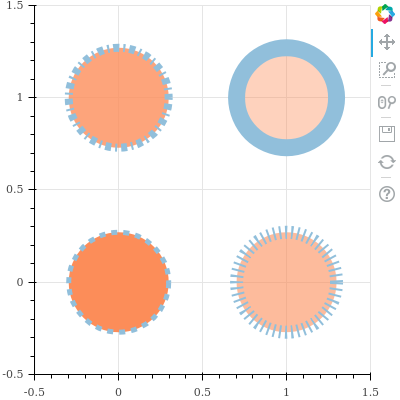
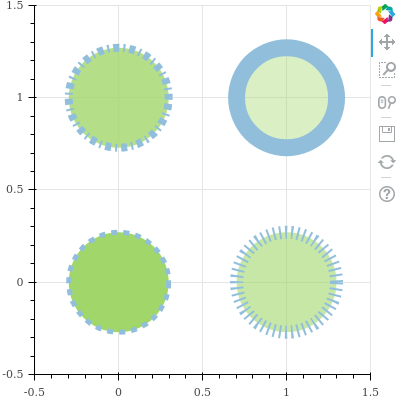
adding glyphs

diff --git a/visualizations/bokeh/figures/circle.html b/visualizations/bokeh/figures/circle.html
@@ -26,15 +26,15 @@
     <body>
         
         <div class="bk-root">
-            <div class="bk-plotdiv" id="016ee3e6-6bab-4445-b987-88fb6fec91d3"></div>
+            <div class="bk-plotdiv" id="a6efa2a0-9f1f-44df-a753-4837cfc12f98"></div>
         </div>
         
         <script type="text/javascript">
             (function() {
           var fn = function() {
             Bokeh.safely(function() {
-              var docs_json = {"7425c72e-9d25-4853-b5f8-5a833be7a4af":{"roots":{"references":[{"attributes":{},"id":"da77394c-7f90-44b4-bea1-871bcfb5b0c9","type":"BasicTicker"},{"attributes":{"formatter":{"id":"8e829ac3-730e-4922-b22a-999b3f5d0844","type":"BasicTickFormatter"},"plot":{"id":"825ba404-db85-4a4c-af7a-4bc21a72608d","subtype":"Figure","type":"Plot"},"ticker":{"id":"8ca9ca64-d7a2-4994-b25f-76a56bb666cb","type":"BasicTicker"}},"id":"10b7a12d-4543-485d-b7d3-59bacd44a700","type":"LinearAxis"},{"attributes":{},"id":"30558fc4-14f2-4649-91ea-7748aa179401","type":"BasicTickFormatter"},{"attributes":{"active_drag":"auto","active_inspect":"auto","active_scroll":"auto","active_tap":"auto","tools":[{"id":"937ae34c-2afb-416a-95f5-23733806713f","type":"PanTool"},{"id":"8aceb1f4-587e-4f96-8ad3-627977fc6270","type":"WheelZoomTool"},{"id":"8dbe59e8-bcb9-4245-8c7a-ae4bae2d7dc0","type":"BoxZoomTool"},{"id":"1e003483-a9c9-4d94-81a9-7a6c46dcdf59","type":"SaveTool"},{"id":"d5073bff-00fe-458f-bf49-c115d2980458","type":"ResetTool"},{"id":"ec0d198e-4907-4490-a04b-97482ac9746b","type":"HelpTool"}]},"id":"9d59d6c5-4900-40bd-a333-58a317f9305c","type":"Toolbar"},{"attributes":{"callback":null,"data":{}},"id":"0e43b28f-b67c-4ab3-bfa4-af4816c6188e","type":"ColumnDataSource"},{"attributes":{"fill_alpha":{"value":0.1},"fill_color":{"value":"#1f77b4"},"line_alpha":{"value":0.1},"line_color":{"value":"#1f77b4"},"line_dash":[2,4],"line_width":{"value":13},"size":{"units":"screen","value":100},"x":{"value":1},"y":{"value":0}},"id":"c6679bb0-2d48-4f10-ab4a-7471c9c18068","type":"Circle"},{"attributes":{"data_source":{"id":"0e43b28f-b67c-4ab3-bfa4-af4816c6188e","type":"ColumnDataSource"},"glyph":{"id":"da93e79d-591a-494e-950f-ed293dbf658c","type":"Circle"},"hover_glyph":null,"muted_glyph":null,"nonselection_glyph":{"id":"c6679bb0-2d48-4f10-ab4a-7471c9c18068","type":"Circle"},"selection_glyph":null,"view":{"id":"66f0ad3f-89fd-4c10-b846-225695e4f6e0","type":"CDSView"}},"id":"46f05738-0840-43ec-8d3f-c16fc93efa57","type":"GlyphRenderer"},{"attributes":{},"id":"8aceb1f4-587e-4f96-8ad3-627977fc6270","type":"WheelZoomTool"},{"attributes":{"bottom_units":"screen","fill_alpha":{"value":0.5},"fill_color":{"value":"lightgrey"},"left_units":"screen","level":"overlay","line_alpha":{"value":1.0},"line_color":{"value":"black"},"line_dash":[4,4],"line_width":{"value":2},"plot":null,"render_mode":"css","right_units":"screen","top_units":"screen"},"id":"aab9ffb8-cad7-4c4b-80be-4af5413a740b","type":"BoxAnnotation"},{"attributes":{"data_source":{"id":"1aa495d4-7cc4-4b5f-8df1-5557ed0e0f76","type":"ColumnDataSource"},"glyph":{"id":"3f9fa75b-c113-4ba8-a276-ce42a9555970","type":"Circle"},"hover_glyph":null,"muted_glyph":null,"nonselection_glyph":{"id":"eacd7602-37bb-45c4-a5e2-34bbc74a8ac0","type":"Circle"},"selection_glyph":null,"view":{"id":"0610156e-77dd-4f61-8d52-fc8ca9e7e5a9","type":"CDSView"}},"id":"f68b690f-1f57-464d-ba5f-0f5635d0fafb","type":"GlyphRenderer"},{"attributes":{"fill_alpha":{"value":0.1},"fill_color":{"value":"#1f77b4"},"line_alpha":{"value":0.1},"line_color":{"value":"#1f77b4"},"line_dash":[2,4,6,4],"line_width":{"value":8},"size":{"units":"screen","value":100},"x":{"value":0},"y":{"value":1}},"id":"28481f73-9f19-4dd0-affa-ce8c21357e09","type":"Circle"},{"attributes":{"bounds":[-1,2],"callback":null,"end":1.5,"start":-0.5},"id":"25f91809-740a-4531-94a2-788de5cbe448","type":"Range1d"},{"attributes":{},"id":"8ca9ca64-d7a2-4994-b25f-76a56bb666cb","type":"BasicTicker"},{"attributes":{"formatter":{"id":"30558fc4-14f2-4649-91ea-7748aa179401","type":"BasicTickFormatter"},"plot":{"id":"825ba404-db85-4a4c-af7a-4bc21a72608d","subtype":"Figure","type":"Plot"},"ticker":{"id":"da77394c-7f90-44b4-bea1-871bcfb5b0c9","type":"BasicTicker"}},"id":"857831e0-e284-4c47-a548-df1c81f61782","type":"LinearAxis"},{"attributes":{"source":{"id":"90b80540-f40a-4370-9db0-cfec0802f675","type":"ColumnDataSource"}},"id":"8ca2b331-722e-418c-a00c-5eee77869789","type":"CDSView"},{"attributes":{"callback":null,"data":{}},"id":"90b80540-f40a-4370-9db0-cfec0802f675","type":"ColumnDataSource"},{"attributes":{"bounds":[-1,2],"callback":null,"end":1.5,"start":-0.5},"id":"d073dffe-87fc-4857-8290-2029acad726f","type":"Range1d"},{"attributes":{"below":[{"id":"10b7a12d-4543-485d-b7d3-59bacd44a700","type":"LinearAxis"}],"left":[{"id":"857831e0-e284-4c47-a548-df1c81f61782","type":"LinearAxis"}],"plot_height":400,"plot_width":400,"renderers":[{"id":"10b7a12d-4543-485d-b7d3-59bacd44a700","type":"LinearAxis"},{"id":"5f26ee8c-197d-401a-9b27-2aa83bcc8ae1","type":"Grid"},{"id":"857831e0-e284-4c47-a548-df1c81f61782","type":"LinearAxis"},{"id":"ebd14b0b-7014-4272-b4de-fcd81ee56b18","type":"Grid"},{"id":"aab9ffb8-cad7-4c4b-80be-4af5413a740b","type":"BoxAnnotation"},{"id":"f68b690f-1f57-464d-ba5f-0f5635d0fafb","type":"GlyphRenderer"},{"id":"7056ece1-690b-4c04-830a-e03a98319b91","type":"GlyphRenderer"},{"id":"46f05738-0840-43ec-8d3f-c16fc93efa57","type":"GlyphRenderer"},{"id":"83349367-168f-4d00-8dac-6d18b9e217c2","type":"GlyphRenderer"}],"title":{"id":"cb30f8db-7f6f-41ad-b730-b7a67fa03b90","type":"Title"},"toolbar":{"id":"9d59d6c5-4900-40bd-a333-58a317f9305c","type":"Toolbar"},"x_range":{"id":"d073dffe-87fc-4857-8290-2029acad726f","type":"Range1d"},"x_scale":{"id":"5a08d1ff-80b3-4386-a0e4-3de660509b74","type":"LinearScale"},"y_range":{"id":"25f91809-740a-4531-94a2-788de5cbe448","type":"Range1d"},"y_scale":{"id":"b6ebc68c-c526-4103-af29-7998e3bb1178","type":"LinearScale"}},"id":"825ba404-db85-4a4c-af7a-4bc21a72608d","subtype":"Figure","type":"Plot"},{"attributes":{"source":{"id":"ca170e1d-8f19-48de-b099-4bc14e5a8bf9","type":"ColumnDataSource"}},"id":"0ae1f9e4-67f1-4949-a085-9015896462ee","type":"CDSView"},{"attributes":{"fill_alpha":{"value":0.1},"fill_color":{"value":"#1f77b4"},"line_alpha":{"value":0.1},"line_color":{"value":"#1f77b4"},"line_dash":[6],"line_width":{"value":5},"size":{"units":"screen","value":100},"x":{"value":0},"y":{"value":0}},"id":"eacd7602-37bb-45c4-a5e2-34bbc74a8ac0","type":"Circle"},{"attributes":{"dimension":1,"plot":{"id":"825ba404-db85-4a4c-af7a-4bc21a72608d","subtype":"Figure","type":"Plot"},"ticker":{"id":"da77394c-7f90-44b4-bea1-871bcfb5b0c9","type":"BasicTicker"}},"id":"ebd14b0b-7014-4272-b4de-fcd81ee56b18","type":"Grid"},{"attributes":{"fill_alpha":{"value":0.4},"fill_color":{"value":"#fc8d59"},"line_color":{"value":"#91bfdb"},"line_width":{"value":17},"size":{"units":"screen","value":100},"x":{"value":1},"y":{"value":1}},"id":"053393d4-a26f-418f-a355-065d90a901ea","type":"Circle"},{"attributes":{"callback":null,"data":{}},"id":"1aa495d4-7cc4-4b5f-8df1-5557ed0e0f76","type":"ColumnDataSource"},{"attributes":{"plot":{"id":"825ba404-db85-4a4c-af7a-4bc21a72608d","subtype":"Figure","type":"Plot"},"ticker":{"id":"8ca9ca64-d7a2-4994-b25f-76a56bb666cb","type":"BasicTicker"}},"id":"5f26ee8c-197d-401a-9b27-2aa83bcc8ae1","type":"Grid"},{"attributes":{},"id":"1e003483-a9c9-4d94-81a9-7a6c46dcdf59","type":"SaveTool"},{"attributes":{},"id":"8e829ac3-730e-4922-b22a-999b3f5d0844","type":"BasicTickFormatter"},{"attributes":{"source":{"id":"0e43b28f-b67c-4ab3-bfa4-af4816c6188e","type":"ColumnDataSource"}},"id":"66f0ad3f-89fd-4c10-b846-225695e4f6e0","type":"CDSView"},{"attributes":{},"id":"5a08d1ff-80b3-4386-a0e4-3de660509b74","type":"LinearScale"},{"attributes":{"fill_color":{"value":"#fc8d59"},"line_color":{"value":"#91bfdb"},"line_dash":[6],"line_width":{"value":5},"size":{"units":"screen","value":100},"x":{"value":0},"y":{"value":0}},"id":"3f9fa75b-c113-4ba8-a276-ce42a9555970","type":"Circle"},{"attributes":{"overlay":{"id":"aab9ffb8-cad7-4c4b-80be-4af5413a740b","type":"BoxAnnotation"}},"id":"8dbe59e8-bcb9-4245-8c7a-ae4bae2d7dc0","type":"BoxZoomTool"},{"attributes":{},"id":"ec0d198e-4907-4490-a04b-97482ac9746b","type":"HelpTool"},{"attributes":{"callback":null,"data":{}},"id":"ca170e1d-8f19-48de-b099-4bc14e5a8bf9","type":"ColumnDataSource"},{"attributes":{"plot":null,"text":""},"id":"cb30f8db-7f6f-41ad-b730-b7a67fa03b90","type":"Title"},{"attributes":{"data_source":{"id":"ca170e1d-8f19-48de-b099-4bc14e5a8bf9","type":"ColumnDataSource"},"glyph":{"id":"a36d699b-a9e1-49a4-8366-a8dcd269b493","type":"Circle"},"hover_glyph":null,"muted_glyph":null,"nonselection_glyph":{"id":"28481f73-9f19-4dd0-affa-ce8c21357e09","type":"Circle"},"selection_glyph":null,"view":{"id":"0ae1f9e4-67f1-4949-a085-9015896462ee","type":"CDSView"}},"id":"7056ece1-690b-4c04-830a-e03a98319b91","type":"GlyphRenderer"},{"attributes":{},"id":"b6ebc68c-c526-4103-af29-7998e3bb1178","type":"LinearScale"},{"attributes":{},"id":"937ae34c-2afb-416a-95f5-23733806713f","type":"PanTool"},{"attributes":{"source":{"id":"1aa495d4-7cc4-4b5f-8df1-5557ed0e0f76","type":"ColumnDataSource"}},"id":"0610156e-77dd-4f61-8d52-fc8ca9e7e5a9","type":"CDSView"},{"attributes":{"fill_alpha":{"value":0.8},"fill_color":{"value":"#fc8d59"},"line_color":{"value":"#91bfdb"},"line_dash":[2,4,6,4],"line_width":{"value":8},"size":{"units":"screen","value":100},"x":{"value":0},"y":{"value":1}},"id":"a36d699b-a9e1-49a4-8366-a8dcd269b493","type":"Circle"},{"attributes":{"fill_alpha":{"value":0.1},"fill_color":{"value":"#1f77b4"},"line_alpha":{"value":0.1},"line_color":{"value":"#1f77b4"},"line_width":{"value":17},"size":{"units":"screen","value":100},"x":{"value":1},"y":{"value":1}},"id":"461ce95e-011d-4bdd-8961-940c026ba76c","type":"Circle"},{"attributes":{},"id":"d5073bff-00fe-458f-bf49-c115d2980458","type":"ResetTool"},{"attributes":{"fill_alpha":{"value":0.6},"fill_color":{"value":"#fc8d59"},"line_color":{"value":"#91bfdb"},"line_dash":[2,4],"line_width":{"value":13},"size":{"units":"screen","value":100},"x":{"value":1},"y":{"value":0}},"id":"da93e79d-591a-494e-950f-ed293dbf658c","type":"Circle"},{"attributes":{"data_source":{"id":"90b80540-f40a-4370-9db0-cfec0802f675","type":"ColumnDataSource"},"glyph":{"id":"053393d4-a26f-418f-a355-065d90a901ea","type":"Circle"},"hover_glyph":null,"muted_glyph":null,"nonselection_glyph":{"id":"461ce95e-011d-4bdd-8961-940c026ba76c","type":"Circle"},"selection_glyph":null,"view":{"id":"8ca2b331-722e-418c-a00c-5eee77869789","type":"CDSView"}},"id":"83349367-168f-4d00-8dac-6d18b9e217c2","type":"GlyphRenderer"}],"root_ids":["825ba404-db85-4a4c-af7a-4bc21a72608d"]},"title":"Bokeh Application","version":"0.12.7"}};
-              var render_items = [{"docid":"7425c72e-9d25-4853-b5f8-5a833be7a4af","elementid":"016ee3e6-6bab-4445-b987-88fb6fec91d3","modelid":"825ba404-db85-4a4c-af7a-4bc21a72608d"}];
+              var docs_json = {"8dd9efcb-bdc0-4768-a108-914ce067f72f":{"roots":{"references":[{"attributes":{"fill_alpha":{"value":0.1},"fill_color":{"value":"#1f77b4"},"line_alpha":{"value":0.1},"line_color":{"value":"#1f77b4"},"line_dash":[2,4,6,4],"line_width":{"value":8},"size":{"units":"screen","value":100},"x":{"value":0},"y":{"value":1}},"id":"083cf977-ec61-4346-b2c9-98d3ea86d51a","type":"Circle"},{"attributes":{"callback":null,"data":{}},"id":"ef7c2193-8f16-46a4-a6ff-c9e4a22636d6","type":"ColumnDataSource"},{"attributes":{"fill_alpha":{"value":0.6},"fill_color":{"value":"#a1d76a"},"line_color":{"value":"#91bfdb"},"line_dash":[2,4],"line_width":{"value":13},"size":{"units":"screen","value":100},"x":{"value":1},"y":{"value":0}},"id":"d1787da3-a72c-431c-90e1-1c26ac1ebb9c","type":"Circle"},{"attributes":{"bounds":[-1,2],"callback":null,"end":1.5,"start":-0.5},"id":"8de936e9-7614-4075-a3cc-9c9795fc3f0b","type":"Range1d"},{"attributes":{"bounds":[-1,2],"callback":null,"end":1.5,"start":-0.5},"id":"92347138-7fbd-4a6b-8a1d-274503ad53c3","type":"Range1d"},{"attributes":{"dimension":1,"plot":{"id":"ee2cada8-2fb3-47b8-ab6b-09b289cbc2f8","subtype":"Figure","type":"Plot"},"ticker":{"id":"3689425b-564f-4ea4-b326-38150ddad5e8","type":"BasicTicker"}},"id":"1f704e49-7858-4ac4-9acb-b4eebc018992","type":"Grid"},{"attributes":{},"id":"5affe392-cfc5-4204-be08-9794f0e4e134","type":"BasicTickFormatter"},{"attributes":{},"id":"df07ccfe-05da-4db0-9122-b1819b9ce75c","type":"BasicTickFormatter"},{"attributes":{"fill_alpha":{"value":0.1},"fill_color":{"value":"#1f77b4"},"line_alpha":{"value":0.1},"line_color":{"value":"#1f77b4"},"line_dash":[6],"line_width":{"value":5},"size":{"units":"screen","value":100},"x":{"value":0},"y":{"value":0}},"id":"6de069ef-b75f-4c0d-9475-f0bdc399644e","type":"Circle"},{"attributes":{"formatter":{"id":"df07ccfe-05da-4db0-9122-b1819b9ce75c","type":"BasicTickFormatter"},"plot":{"id":"ee2cada8-2fb3-47b8-ab6b-09b289cbc2f8","subtype":"Figure","type":"Plot"},"ticker":{"id":"3689425b-564f-4ea4-b326-38150ddad5e8","type":"BasicTicker"}},"id":"9c9a29eb-b706-420e-b942-a2ba0b1f60db","type":"LinearAxis"},{"attributes":{"active_drag":"auto","active_inspect":"auto","active_scroll":"auto","active_tap":"auto","tools":[{"id":"9a6ee672-cac0-480b-81be-92f5066c44f2","type":"PanTool"},{"id":"71fa9cc7-91b1-462e-adde-bbd5c6a8da75","type":"WheelZoomTool"},{"id":"fb974e60-8103-482b-a557-4c38f83a5bbc","type":"BoxZoomTool"},{"id":"81c22d9a-b20f-424f-8879-92c6eeabbd6f","type":"SaveTool"},{"id":"fdd4034f-84d4-47a7-b092-032effeda866","type":"ResetTool"},{"id":"6a4076f7-44ad-4e04-85fe-8665d721f455","type":"HelpTool"}]},"id":"231920ce-4be9-4bb4-8947-99005ff6c2da","type":"Toolbar"},{"attributes":{"data_source":{"id":"1009bea6-203a-4093-bd89-44645464fc32","type":"ColumnDataSource"},"glyph":{"id":"a504a8d5-7675-41c5-9d4e-4db5a9dcaceb","type":"Circle"},"hover_glyph":null,"muted_glyph":null,"nonselection_glyph":{"id":"aafce291-3ab4-41d1-a3b3-f07ff556114c","type":"Circle"},"selection_glyph":null,"view":{"id":"171afaab-f7ab-4110-ac91-239ae4aad0c2","type":"CDSView"}},"id":"50569c07-7e2e-42df-82b3-8b6b5d6fcfd5","type":"GlyphRenderer"},{"attributes":{"source":{"id":"d780b8fe-dc55-4df4-91e5-b112058a2573","type":"ColumnDataSource"}},"id":"db59627c-6b44-40a7-892a-f90b307425c6","type":"CDSView"},{"attributes":{"bottom_units":"screen","fill_alpha":{"value":0.5},"fill_color":{"value":"lightgrey"},"left_units":"screen","level":"overlay","line_alpha":{"value":1.0},"line_color":{"value":"black"},"line_dash":[4,4],"line_width":{"value":2},"plot":null,"render_mode":"css","right_units":"screen","top_units":"screen"},"id":"506f93ab-9340-4264-a7b6-12e28b54ff9a","type":"BoxAnnotation"},{"attributes":{},"id":"254236cb-e669-4510-a165-f70ae5424821","type":"LinearScale"},{"attributes":{},"id":"9a6ee672-cac0-480b-81be-92f5066c44f2","type":"PanTool"},{"attributes":{"fill_alpha":{"value":0.1},"fill_color":{"value":"#1f77b4"},"line_alpha":{"value":0.1},"line_color":{"value":"#1f77b4"},"line_width":{"value":17},"size":{"units":"screen","value":100},"x":{"value":1},"y":{"value":1}},"id":"aafce291-3ab4-41d1-a3b3-f07ff556114c","type":"Circle"},{"attributes":{},"id":"3689425b-564f-4ea4-b326-38150ddad5e8","type":"BasicTicker"},{"attributes":{"formatter":{"id":"5affe392-cfc5-4204-be08-9794f0e4e134","type":"BasicTickFormatter"},"plot":{"id":"ee2cada8-2fb3-47b8-ab6b-09b289cbc2f8","subtype":"Figure","type":"Plot"},"ticker":{"id":"ac589211-1200-4da4-ac69-3b9b35c004af","type":"BasicTicker"}},"id":"3cdb5c81-782d-419c-8605-a9881f063a30","type":"LinearAxis"},{"attributes":{"below":[{"id":"3cdb5c81-782d-419c-8605-a9881f063a30","type":"LinearAxis"}],"left":[{"id":"9c9a29eb-b706-420e-b942-a2ba0b1f60db","type":"LinearAxis"}],"plot_height":400,"plot_width":400,"renderers":[{"id":"3cdb5c81-782d-419c-8605-a9881f063a30","type":"LinearAxis"},{"id":"dc39b42b-5638-4772-86c2-fed25d37917f","type":"Grid"},{"id":"9c9a29eb-b706-420e-b942-a2ba0b1f60db","type":"LinearAxis"},{"id":"1f704e49-7858-4ac4-9acb-b4eebc018992","type":"Grid"},{"id":"506f93ab-9340-4264-a7b6-12e28b54ff9a","type":"BoxAnnotation"},{"id":"16c22c40-6adc-4d73-a769-1e10eb638e16","type":"GlyphRenderer"},{"id":"bff52bd3-3b21-4a77-b029-0bf50b8675e2","type":"GlyphRenderer"},{"id":"8156bdd5-b5fa-4b21-a7a1-94cc5a28292d","type":"GlyphRenderer"},{"id":"50569c07-7e2e-42df-82b3-8b6b5d6fcfd5","type":"GlyphRenderer"}],"title":{"id":"f440812c-9bfa-4c30-9bd9-fa0ac16da35c","type":"Title"},"toolbar":{"id":"231920ce-4be9-4bb4-8947-99005ff6c2da","type":"Toolbar"},"x_range":{"id":"8de936e9-7614-4075-a3cc-9c9795fc3f0b","type":"Range1d"},"x_scale":{"id":"2ecae27a-2eb6-45ad-8b80-8a93cca91ddd","type":"LinearScale"},"y_range":{"id":"92347138-7fbd-4a6b-8a1d-274503ad53c3","type":"Range1d"},"y_scale":{"id":"254236cb-e669-4510-a165-f70ae5424821","type":"LinearScale"}},"id":"ee2cada8-2fb3-47b8-ab6b-09b289cbc2f8","subtype":"Figure","type":"Plot"},{"attributes":{"fill_alpha":{"value":0.1},"fill_color":{"value":"#1f77b4"},"line_alpha":{"value":0.1},"line_color":{"value":"#1f77b4"},"line_dash":[2,4],"line_width":{"value":13},"size":{"units":"screen","value":100},"x":{"value":1},"y":{"value":0}},"id":"ae8adf29-5571-4c77-ab36-a15a2909bb96","type":"Circle"},{"attributes":{},"id":"71fa9cc7-91b1-462e-adde-bbd5c6a8da75","type":"WheelZoomTool"},{"attributes":{"fill_alpha":{"value":0.8},"fill_color":{"value":"#a1d76a"},"line_color":{"value":"#91bfdb"},"line_dash":[2,4,6,4],"line_width":{"value":8},"size":{"units":"screen","value":100},"x":{"value":0},"y":{"value":1}},"id":"dc8037c2-4819-4fe1-b69e-66b19883df41","type":"Circle"},{"attributes":{"plot":{"id":"ee2cada8-2fb3-47b8-ab6b-09b289cbc2f8","subtype":"Figure","type":"Plot"},"ticker":{"id":"ac589211-1200-4da4-ac69-3b9b35c004af","type":"BasicTicker"}},"id":"dc39b42b-5638-4772-86c2-fed25d37917f","type":"Grid"},{"attributes":{},"id":"6a4076f7-44ad-4e04-85fe-8665d721f455","type":"HelpTool"},{"attributes":{"fill_color":{"value":"#a1d76a"},"line_color":{"value":"#91bfdb"},"line_dash":[6],"line_width":{"value":5},"size":{"units":"screen","value":100},"x":{"value":0},"y":{"value":0}},"id":"776e3e2a-5a77-45e5-ac0c-c3ea384ac158","type":"Circle"},{"attributes":{"data_source":{"id":"c835e625-f071-4e0c-80b4-1435012d8327","type":"ColumnDataSource"},"glyph":{"id":"d1787da3-a72c-431c-90e1-1c26ac1ebb9c","type":"Circle"},"hover_glyph":null,"muted_glyph":null,"nonselection_glyph":{"id":"ae8adf29-5571-4c77-ab36-a15a2909bb96","type":"Circle"},"selection_glyph":null,"view":{"id":"3d7844d0-420a-475e-a2ba-b30d57819532","type":"CDSView"}},"id":"8156bdd5-b5fa-4b21-a7a1-94cc5a28292d","type":"GlyphRenderer"},{"attributes":{"callback":null,"data":{}},"id":"c835e625-f071-4e0c-80b4-1435012d8327","type":"ColumnDataSource"},{"attributes":{"source":{"id":"c835e625-f071-4e0c-80b4-1435012d8327","type":"ColumnDataSource"}},"id":"3d7844d0-420a-475e-a2ba-b30d57819532","type":"CDSView"},{"attributes":{"callback":null,"data":{}},"id":"1009bea6-203a-4093-bd89-44645464fc32","type":"ColumnDataSource"},{"attributes":{"data_source":{"id":"ef7c2193-8f16-46a4-a6ff-c9e4a22636d6","type":"ColumnDataSource"},"glyph":{"id":"dc8037c2-4819-4fe1-b69e-66b19883df41","type":"Circle"},"hover_glyph":null,"muted_glyph":null,"nonselection_glyph":{"id":"083cf977-ec61-4346-b2c9-98d3ea86d51a","type":"Circle"},"selection_glyph":null,"view":{"id":"f1dc09e1-c659-435c-9c65-9cbea4df3fd1","type":"CDSView"}},"id":"bff52bd3-3b21-4a77-b029-0bf50b8675e2","type":"GlyphRenderer"},{"attributes":{"overlay":{"id":"506f93ab-9340-4264-a7b6-12e28b54ff9a","type":"BoxAnnotation"}},"id":"fb974e60-8103-482b-a557-4c38f83a5bbc","type":"BoxZoomTool"},{"attributes":{},"id":"81c22d9a-b20f-424f-8879-92c6eeabbd6f","type":"SaveTool"},{"attributes":{"callback":null,"data":{}},"id":"d780b8fe-dc55-4df4-91e5-b112058a2573","type":"ColumnDataSource"},{"attributes":{},"id":"2ecae27a-2eb6-45ad-8b80-8a93cca91ddd","type":"LinearScale"},{"attributes":{"source":{"id":"ef7c2193-8f16-46a4-a6ff-c9e4a22636d6","type":"ColumnDataSource"}},"id":"f1dc09e1-c659-435c-9c65-9cbea4df3fd1","type":"CDSView"},{"attributes":{"data_source":{"id":"d780b8fe-dc55-4df4-91e5-b112058a2573","type":"ColumnDataSource"},"glyph":{"id":"776e3e2a-5a77-45e5-ac0c-c3ea384ac158","type":"Circle"},"hover_glyph":null,"muted_glyph":null,"nonselection_glyph":{"id":"6de069ef-b75f-4c0d-9475-f0bdc399644e","type":"Circle"},"selection_glyph":null,"view":{"id":"db59627c-6b44-40a7-892a-f90b307425c6","type":"CDSView"}},"id":"16c22c40-6adc-4d73-a769-1e10eb638e16","type":"GlyphRenderer"},{"attributes":{"plot":null,"text":""},"id":"f440812c-9bfa-4c30-9bd9-fa0ac16da35c","type":"Title"},{"attributes":{},"id":"ac589211-1200-4da4-ac69-3b9b35c004af","type":"BasicTicker"},{"attributes":{},"id":"fdd4034f-84d4-47a7-b092-032effeda866","type":"ResetTool"},{"attributes":{"fill_alpha":{"value":0.4},"fill_color":{"value":"#a1d76a"},"line_color":{"value":"#91bfdb"},"line_width":{"value":17},"size":{"units":"screen","value":100},"x":{"value":1},"y":{"value":1}},"id":"a504a8d5-7675-41c5-9d4e-4db5a9dcaceb","type":"Circle"},{"attributes":{"source":{"id":"1009bea6-203a-4093-bd89-44645464fc32","type":"ColumnDataSource"}},"id":"171afaab-f7ab-4110-ac91-239ae4aad0c2","type":"CDSView"}],"root_ids":["ee2cada8-2fb3-47b8-ab6b-09b289cbc2f8"]},"title":"Bokeh Application","version":"0.12.7"}};
+              var render_items = [{"docid":"8dd9efcb-bdc0-4768-a108-914ce067f72f","elementid":"a6efa2a0-9f1f-44df-a753-4837cfc12f98","modelid":"ee2cada8-2fb3-47b8-ab6b-09b289cbc2f8"}];
               
               Bokeh.embed.embed_items(docs_json, render_items);
             });

diff --git a/visualizations/bokeh/figures/oval.html b/visualizations/bokeh/figures/oval.html
@@ -1,0 +1,48 @@
+
+<!DOCTYPE html>
+<html lang="en">
+    <head>
+        <meta charset="utf-8">
+        <title>Bokeh Plot</title>
+        
+<link rel="stylesheet" href="https://cdn.pydata.org/bokeh/release/bokeh-0.12.7.min.css" type="text/css" />
+        
+<script type="text/javascript" src="https://cdn.pydata.org/bokeh/release/bokeh-0.12.7.min.js"></script>
+<script type="text/javascript">
+    Bokeh.set_log_level("info");
+</script>
+        <style>
+          html {
+            width: 100%;
+            height: 100%;
+          }
+          body {
+            width: 90%;
+            height: 100%;
+            margin: auto;
+          }
+        </style>
+    </head>
+    <body>
+        
+        <div class="bk-root">
+            <div class="bk-plotdiv" id="62989a92-e396-4f5a-965a-313b84857a18"></div>
+        </div>
+        
+        <script type="text/javascript">
+            (function() {
+          var fn = function() {
+            Bokeh.safely(function() {
+              var docs_json = {"1d04ee31-8a85-4418-b7fb-336498532421":{"roots":{"references":[{"attributes":{"fill_alpha":{"value":0.8},"fill_color":{"value":"#a1d76a"},"height":{"units":"data","value":0.75},"line_color":{"value":"#e9a3c9"},"line_dash":[2,4,6,4],"line_width":{"value":8},"width":{"units":"data","value":0.5},"x":{"value":0},"y":{"value":1}},"id":"dadd5312-4910-4e13-9038-2ab658ad33fe","type":"Oval"},{"attributes":{},"id":"24e776b3-d8e7-473a-996a-7b53e8a775b0","type":"LinearScale"},{"attributes":{"fill_alpha":{"value":0.1},"fill_color":{"value":"#1f77b4"},"height":{"units":"data","value":0.75},"line_alpha":{"value":0.1},"line_color":{"value":"#1f77b4"},"line_dash":[2,4],"line_width":{"value":13},"width":{"units":"data","value":0.75},"x":{"value":1},"y":{"value":0}},"id":"e058e57b-f2a9-4df8-af5f-fa073d35b3c4","type":"Oval"},{"attributes":{"below":[{"id":"d87bc479-787b-4223-ba49-768d3d163545","type":"LinearAxis"}],"left":[{"id":"0a48bb47-137e-42e9-ad80-e3044a338332","type":"LinearAxis"}],"plot_height":400,"plot_width":400,"renderers":[{"id":"d87bc479-787b-4223-ba49-768d3d163545","type":"LinearAxis"},{"id":"f17390de-6759-4f5c-bf11-67b1ed06ecbf","type":"Grid"},{"id":"0a48bb47-137e-42e9-ad80-e3044a338332","type":"LinearAxis"},{"id":"6615a2eb-dd79-48c9-ab9f-cc2f9919d4b4","type":"Grid"},{"id":"9e87a8dd-1f8e-4e99-8a12-9ebe5a4704f1","type":"BoxAnnotation"},{"id":"56ebb76b-2836-4bfb-9501-9e6c39e6650c","type":"GlyphRenderer"},{"id":"d07322be-cfb5-42f8-977a-852c487fa246","type":"GlyphRenderer"},{"id":"f21fa992-15e8-4483-bbc6-1a89d8596015","type":"GlyphRenderer"},{"id":"e3928231-d08b-4710-9102-ea923d526dd1","type":"GlyphRenderer"}],"title":{"id":"a908894b-35f0-4e01-a70e-61f84bc4c3d5","type":"Title"},"toolbar":{"id":"2168eee2-3061-4799-adf0-fc2b30e4313d","type":"Toolbar"},"x_range":{"id":"86571c73-4f47-4b6d-85f3-47724ad37367","type":"Range1d"},"x_scale":{"id":"1f7d412c-b5dc-42f1-9451-627bfcfc04df","type":"LinearScale"},"y_range":{"id":"fdf60e62-45b7-475e-aa7b-d891fa0e463c","type":"Range1d"},"y_scale":{"id":"24e776b3-d8e7-473a-996a-7b53e8a775b0","type":"LinearScale"}},"id":"e5f42080-389a-4f6d-b243-21b1b19cb5c6","subtype":"Figure","type":"Plot"},{"attributes":{},"id":"48639cf8-b2d5-410c-bd11-69905173ad43","type":"SaveTool"},{"attributes":{},"id":"07195ee6-4a4f-416e-baf5-a638aae50ede","type":"BasicTickFormatter"},{"attributes":{},"id":"9c3410e4-72c3-4262-a37f-a7e6cd170613","type":"BasicTicker"},{"attributes":{"data_source":{"id":"46220542-4b14-44ad-969f-a1e7d00faab8","type":"ColumnDataSource"},"glyph":{"id":"cc58413f-e6e5-47cc-9de7-b7a2780539a6","type":"Oval"},"hover_glyph":null,"muted_glyph":null,"nonselection_glyph":{"id":"7548c109-bf78-495d-b475-a7baa28d4283","type":"Oval"},"selection_glyph":null,"view":{"id":"ef9cb6ea-433f-4111-bc66-d7a1a931d2cd","type":"CDSView"}},"id":"e3928231-d08b-4710-9102-ea923d526dd1","type":"GlyphRenderer"},{"attributes":{"fill_color":{"value":"#a1d76a"},"height":{"units":"data","value":0.5},"line_color":{"value":"#e9a3c9"},"line_dash":[6],"line_width":{"value":5},"width":{"units":"data","value":0.75},"x":{"value":0},"y":{"value":0}},"id":"f0922449-eca8-477b-8413-4f6d4801c103","type":"Oval"},{"attributes":{},"id":"445d9921-2340-49da-88a9-77863f76f850","type":"BasicTicker"},{"attributes":{},"id":"1f7d412c-b5dc-42f1-9451-627bfcfc04df","type":"LinearScale"},{"attributes":{"bottom_units":"screen","fill_alpha":{"value":0.5},"fill_color":{"value":"lightgrey"},"left_units":"screen","level":"overlay","line_alpha":{"value":1.0},"line_color":{"value":"black"},"line_dash":[4,4],"line_width":{"value":2},"plot":null,"render_mode":"css","right_units":"screen","top_units":"screen"},"id":"9e87a8dd-1f8e-4e99-8a12-9ebe5a4704f1","type":"BoxAnnotation"},{"attributes":{"overlay":{"id":"9e87a8dd-1f8e-4e99-8a12-9ebe5a4704f1","type":"BoxAnnotation"}},"id":"13b1827a-9299-45e8-afac-8b1573bff317","type":"BoxZoomTool"},{"attributes":{"fill_alpha":{"value":0.4},"fill_color":{"value":"#a1d76a"},"height":{"units":"data","value":0.5},"line_color":{"value":"#e9a3c9"},"line_width":{"value":17},"width":{"units":"data","value":0.5},"x":{"value":1},"y":{"value":1}},"id":"cc58413f-e6e5-47cc-9de7-b7a2780539a6","type":"Oval"},{"attributes":{"formatter":{"id":"07195ee6-4a4f-416e-baf5-a638aae50ede","type":"BasicTickFormatter"},"plot":{"id":"e5f42080-389a-4f6d-b243-21b1b19cb5c6","subtype":"Figure","type":"Plot"},"ticker":{"id":"445d9921-2340-49da-88a9-77863f76f850","type":"BasicTicker"}},"id":"d87bc479-787b-4223-ba49-768d3d163545","type":"LinearAxis"},{"attributes":{"data_source":{"id":"b005d9e0-3abe-473c-9297-d92c07b67ae0","type":"ColumnDataSource"},"glyph":{"id":"e2a611fe-79df-43ef-8ba1-57c807c4385b","type":"Oval"},"hover_glyph":null,"muted_glyph":null,"nonselection_glyph":{"id":"e058e57b-f2a9-4df8-af5f-fa073d35b3c4","type":"Oval"},"selection_glyph":null,"view":{"id":"6626e1a3-f8cb-4ba7-927d-9e73b77b4fb3","type":"CDSView"}},"id":"f21fa992-15e8-4483-bbc6-1a89d8596015","type":"GlyphRenderer"},{"attributes":{},"id":"616a46b0-e7be-4404-9f9b-fcfdf334cdbb","type":"ResetTool"},{"attributes":{"callback":null,"data":{}},"id":"1a96e4d3-264b-47fc-ba2f-b7c0ea44291a","type":"ColumnDataSource"},{"attributes":{"plot":{"id":"e5f42080-389a-4f6d-b243-21b1b19cb5c6","subtype":"Figure","type":"Plot"},"ticker":{"id":"445d9921-2340-49da-88a9-77863f76f850","type":"BasicTicker"}},"id":"f17390de-6759-4f5c-bf11-67b1ed06ecbf","type":"Grid"},{"attributes":{"source":{"id":"b005d9e0-3abe-473c-9297-d92c07b67ae0","type":"ColumnDataSource"}},"id":"6626e1a3-f8cb-4ba7-927d-9e73b77b4fb3","type":"CDSView"},{"attributes":{"active_drag":"auto","active_inspect":"auto","active_scroll":"auto","active_tap":"auto","tools":[{"id":"891ee9f4-981b-4661-9c3a-398ac33fec5a","type":"PanTool"},{"id":"1a161d79-d8cf-4324-ad53-dbfd9a3a7566","type":"WheelZoomTool"},{"id":"13b1827a-9299-45e8-afac-8b1573bff317","type":"BoxZoomTool"},{"id":"48639cf8-b2d5-410c-bd11-69905173ad43","type":"SaveTool"},{"id":"616a46b0-e7be-4404-9f9b-fcfdf334cdbb","type":"ResetTool"},{"id":"bc60f331-735c-4943-904c-6a2f869e45b9","type":"HelpTool"}]},"id":"2168eee2-3061-4799-adf0-fc2b30e4313d","type":"Toolbar"},{"attributes":{"fill_alpha":{"value":0.1},"fill_color":{"value":"#1f77b4"},"height":{"units":"data","value":0.5},"line_alpha":{"value":0.1},"line_color":{"value":"#1f77b4"},"line_width":{"value":17},"width":{"units":"data","value":0.5},"x":{"value":1},"y":{"value":1}},"id":"7548c109-bf78-495d-b475-a7baa28d4283","type":"Oval"},{"attributes":{"source":{"id":"46220542-4b14-44ad-969f-a1e7d00faab8","type":"ColumnDataSource"}},"id":"ef9cb6ea-433f-4111-bc66-d7a1a931d2cd","type":"CDSView"},{"attributes":{"source":{"id":"9f571770-ddd6-4b45-a89c-9edef24fb594","type":"ColumnDataSource"}},"id":"59e11450-78c9-4c80-becd-4faa33aa75be","type":"CDSView"},{"attributes":{},"id":"891ee9f4-981b-4661-9c3a-398ac33fec5a","type":"PanTool"},{"attributes":{"formatter":{"id":"9a7c8dd0-ddd2-4768-ae61-2976dde85bf3","type":"BasicTickFormatter"},"plot":{"id":"e5f42080-389a-4f6d-b243-21b1b19cb5c6","subtype":"Figure","type":"Plot"},"ticker":{"id":"9c3410e4-72c3-4262-a37f-a7e6cd170613","type":"BasicTicker"}},"id":"0a48bb47-137e-42e9-ad80-e3044a338332","type":"LinearAxis"},{"attributes":{"bounds":[-1,2],"callback":null,"end":1.5,"start":-0.5},"id":"fdf60e62-45b7-475e-aa7b-d891fa0e463c","type":"Range1d"},{"attributes":{"callback":null,"data":{}},"id":"b005d9e0-3abe-473c-9297-d92c07b67ae0","type":"ColumnDataSource"},{"attributes":{"fill_alpha":{"value":0.6},"fill_color":{"value":"#a1d76a"},"height":{"units":"data","value":0.75},"line_color":{"value":"#e9a3c9"},"line_dash":[2,4],"line_width":{"value":13},"width":{"units":"data","value":0.75},"x":{"value":1},"y":{"value":0}},"id":"e2a611fe-79df-43ef-8ba1-57c807c4385b","type":"Oval"},{"attributes":{"callback":null,"data":{}},"id":"46220542-4b14-44ad-969f-a1e7d00faab8","type":"ColumnDataSource"},{"attributes":{},"id":"1a161d79-d8cf-4324-ad53-dbfd9a3a7566","type":"WheelZoomTool"},{"attributes":{"callback":null,"data":{}},"id":"9f571770-ddd6-4b45-a89c-9edef24fb594","type":"ColumnDataSource"},{"attributes":{"source":{"id":"1a96e4d3-264b-47fc-ba2f-b7c0ea44291a","type":"ColumnDataSource"}},"id":"ee9b2e5e-9807-4bec-96ae-4550e5af5dc9","type":"CDSView"},{"attributes":{"data_source":{"id":"1a96e4d3-264b-47fc-ba2f-b7c0ea44291a","type":"ColumnDataSource"},"glyph":{"id":"dadd5312-4910-4e13-9038-2ab658ad33fe","type":"Oval"},"hover_glyph":null,"muted_glyph":null,"nonselection_glyph":{"id":"34d62bf9-f475-40bc-9ad6-317a2768102a","type":"Oval"},"selection_glyph":null,"view":{"id":"ee9b2e5e-9807-4bec-96ae-4550e5af5dc9","type":"CDSView"}},"id":"d07322be-cfb5-42f8-977a-852c487fa246","type":"GlyphRenderer"},{"attributes":{"plot":null,"text":""},"id":"a908894b-35f0-4e01-a70e-61f84bc4c3d5","type":"Title"},{"attributes":{},"id":"bc60f331-735c-4943-904c-6a2f869e45b9","type":"HelpTool"},{"attributes":{},"id":"9a7c8dd0-ddd2-4768-ae61-2976dde85bf3","type":"BasicTickFormatter"},{"attributes":{"bounds":[-1,2],"callback":null,"end":1.5,"start":-0.5},"id":"86571c73-4f47-4b6d-85f3-47724ad37367","type":"Range1d"},{"attributes":{"dimension":1,"plot":{"id":"e5f42080-389a-4f6d-b243-21b1b19cb5c6","subtype":"Figure","type":"Plot"},"ticker":{"id":"9c3410e4-72c3-4262-a37f-a7e6cd170613","type":"BasicTicker"}},"id":"6615a2eb-dd79-48c9-ab9f-cc2f9919d4b4","type":"Grid"},{"attributes":{"fill_alpha":{"value":0.1},"fill_color":{"value":"#1f77b4"},"height":{"units":"data","value":0.5},"line_alpha":{"value":0.1},"line_color":{"value":"#1f77b4"},"line_dash":[6],"line_width":{"value":5},"width":{"units":"data","value":0.75},"x":{"value":0},"y":{"value":0}},"id":"a7d42404-54c8-486d-9443-663720b7b05a","type":"Oval"},{"attributes":{"fill_alpha":{"value":0.1},"fill_color":{"value":"#1f77b4"},"height":{"units":"data","value":0.75},"line_alpha":{"value":0.1},"line_color":{"value":"#1f77b4"},"line_dash":[2,4,6,4],"line_width":{"value":8},"width":{"units":"data","value":0.5},"x":{"value":0},"y":{"value":1}},"id":"34d62bf9-f475-40bc-9ad6-317a2768102a","type":"Oval"},{"attributes":{"data_source":{"id":"9f571770-ddd6-4b45-a89c-9edef24fb594","type":"ColumnDataSource"},"glyph":{"id":"f0922449-eca8-477b-8413-4f6d4801c103","type":"Oval"},"hover_glyph":null,"muted_glyph":null,"nonselection_glyph":{"id":"a7d42404-54c8-486d-9443-663720b7b05a","type":"Oval"},"selection_glyph":null,"view":{"id":"59e11450-78c9-4c80-becd-4faa33aa75be","type":"CDSView"}},"id":"56ebb76b-2836-4bfb-9501-9e6c39e6650c","type":"GlyphRenderer"}],"root_ids":["e5f42080-389a-4f6d-b243-21b1b19cb5c6"]},"title":"Bokeh Application","version":"0.12.7"}};
+              var render_items = [{"docid":"1d04ee31-8a85-4418-b7fb-336498532421","elementid":"62989a92-e396-4f5a-965a-313b84857a18","modelid":"e5f42080-389a-4f6d-b243-21b1b19cb5c6"}];
+              
+              Bokeh.embed.embed_items(docs_json, render_items);
+            });
+          };
+          if (document.readyState != "loading") fn();
+          else document.addEventListener("DOMContentLoaded", fn);
+        })();
+        
+        </script>
+    </body>
+</html>

diff --git a/format_template.py b/format_template.py
@@ -6,7 +6,8 @@ base_image_filename  = '../visualizations/'
 key_base = "bokeh_glyphs_{}"
 glyph_names = ['annular_wedge', 'annulus','arc','asterisk','circle',
 'circle_cross','circle_x','cross','diamond','diamond_cross','ellipse',
-'hbar','image','image_rgba', 'image_url', 'line', 'square','triangle','vbar']
+'hbar','image','image_rgba', 'image_url', 'line', 'oval','square',
+'triangle','vbar']
 
 glyph_format_dict = dict(glyph_base_code_filename=base_filename+'bokeh/glyphs/',
 	                     glyph_base_html_filename=base_filename+'bokeh/figures/',

diff --git a/gallery.md b/gallery.md
@@ -31,6 +31,7 @@ Below is a collection of data visualizations. Each final image below links to th
 &nbsp;&nbsp;&nbsp;&nbsp;&nbsp;&nbsp;&nbsp;&nbsp; - [Image RGBA](#bokeh-glyphs-image_rgba)  
 &nbsp;&nbsp;&nbsp;&nbsp;&nbsp;&nbsp;&nbsp;&nbsp; - [Image URL](#bokeh-glyphs-image_url)  
 &nbsp;&nbsp;&nbsp;&nbsp;&nbsp;&nbsp;&nbsp;&nbsp; - [Line](#bokeh-glyphs-line) 
+&nbsp;&nbsp;&nbsp;&nbsp;&nbsp;&nbsp;&nbsp;&nbsp; - [Oval](#bokeh-glyphs-oval) 
 &nbsp;&nbsp;&nbsp;&nbsp;&nbsp;&nbsp;&nbsp;&nbsp; - [Square](#bokeh-glyphs-square)  
 &nbsp;&nbsp;&nbsp;&nbsp;&nbsp;&nbsp;&nbsp;&nbsp; - [Triangle](#bokeh-glyphs-triangle)  
 &nbsp;&nbsp;&nbsp;&nbsp;&nbsp;&nbsp;&nbsp;&nbsp; - [Vbar](#bokeh-glyphs-vbar) 
@@ -162,6 +163,12 @@ Glyphs are the fundamental building block of plots in `Bokeh`.
 <a name="bokeh-glyphs-line"></a>
 #### Line ([Interactive](http://alanpryorjr.com/visualizations/bokeh/figures/line)) [(code)](http://alanpryorjr.com/visualizations/bokeh/glyphs/line/line)
 ![Line](../visualizations/bokeh/figures/line.png)
+
+
+
+<a name="bokeh-glyphs-oval"></a>
+#### Oval ([Interactive](http://alanpryorjr.com/visualizations/bokeh/figures/oval)) [(code)](http://alanpryorjr.com/visualizations/bokeh/glyphs/oval/oval)
+![Oval](../visualizations/bokeh/figures/oval.png)
 
 
 

diff --git a/visualizations/bokeh/glyphs/oval/oval.md b/visualizations/bokeh/glyphs/oval/oval.md
@@ -1,0 +1,27 @@
+
+# Bokeh Oval Glyph
+
+
+```python
+from bokeh.plotting import figure, output_file, show
+from bokeh.models import Range1d
+from bokeh.io import export_png
+
+fill_color = '#a1d76a'
+line_color = '#e9a3c9'
+output_file("../../figures/oval.html")
+
+p = figure(plot_width=400, plot_height=400)
+p.oval(x=0,y=0, fill_alpha=1,fill_color=fill_color, width=0.75,height=0.5,
+         line_alpha=1, line_color=line_color, line_dash='dashed', line_width=5)
+p.oval(x=0,y=1,fill_alpha=0.8, fill_color=fill_color, width=0.5,height=0.75,
+         line_alpha=1, line_color=line_color, line_dash='dotdash', line_width=8)
+p.oval(x=1,y=0, fill_alpha=0.6, fill_color = fill_color, width=0.75,height=0.75,
+         line_alpha=1, line_color=line_color, line_dash='dotted', line_width=13)
+p.oval(x=1,y=1, fill_alpha=0.4, fill_color = fill_color, width=0.5,height=0.5,
+         line_alpha=1, line_color=line_color, line_dash='solid', line_width=17)
+p.x_range = Range1d(-0.5,1.5, bounds=(-1,2))
+p.y_range = Range1d(-0.5,1.5, bounds=(-1,2))
+show(p)
+export_png(p, filename="../../figures/oval.png");
+```

diff --git a/gallery-template.md b/gallery-template.md
@@ -31,6 +31,7 @@ Below is a collection of data visualizations. Each final image below links to th
 &nbsp;&nbsp;&nbsp;&nbsp;&nbsp;&nbsp;&nbsp;&nbsp; - [Image RGBA](#bokeh-glyphs-image_rgba)  
 &nbsp;&nbsp;&nbsp;&nbsp;&nbsp;&nbsp;&nbsp;&nbsp; - [Image URL](#bokeh-glyphs-image_url)  
 &nbsp;&nbsp;&nbsp;&nbsp;&nbsp;&nbsp;&nbsp;&nbsp; - [Line](#bokeh-glyphs-line) 
+&nbsp;&nbsp;&nbsp;&nbsp;&nbsp;&nbsp;&nbsp;&nbsp; - [Oval](#bokeh-glyphs-oval) 
 &nbsp;&nbsp;&nbsp;&nbsp;&nbsp;&nbsp;&nbsp;&nbsp; - [Square](#bokeh-glyphs-square)  
 &nbsp;&nbsp;&nbsp;&nbsp;&nbsp;&nbsp;&nbsp;&nbsp; - [Triangle](#bokeh-glyphs-triangle)  
 &nbsp;&nbsp;&nbsp;&nbsp;&nbsp;&nbsp;&nbsp;&nbsp; - [Vbar](#bokeh-glyphs-vbar) 
@@ -99,6 +100,8 @@ Glyphs are the fundamental building block of plots in `Bokeh`.
 {bokeh_glyphs_image_url}
 
 {bokeh_glyphs_line}
+
+{bokeh_glyphs_oval}
 
 {bokeh_glyphs_square}
 
